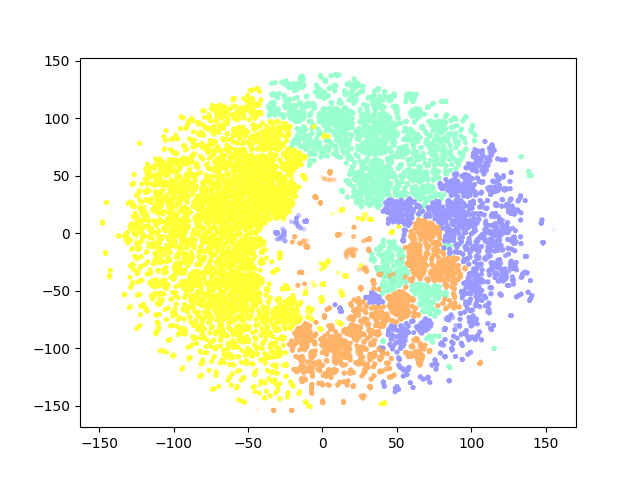
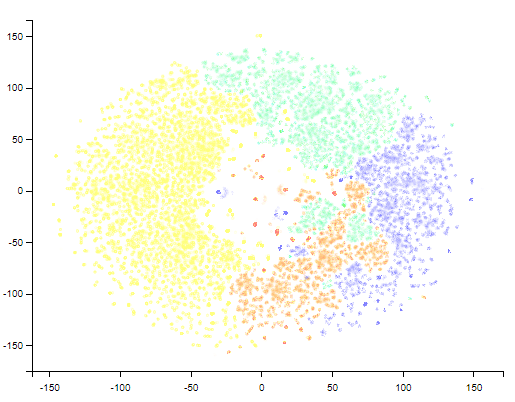
tsne & 3d visualization script updates

diff --git a/clustering/tsne.py b/clustering/tsne.py
@@ -5,7 +5,7 @@ from matplotlib import pyplot as plt
 
 if __name__ == '__main__':
     # read data
-    data = pd.read_csv('../data/clustering_results/kmeans_results_full.csv')
+    data = pd.read_csv('../data/clustering_results/kmeans_results_clean.csv')
 
     # prepare data for clustering (store and then remove id)
     clusters = data['cluster']
@@ -17,5 +17,5 @@ if __name__ == '__main__':
 
     # visualize data through TSNE
     projection = TSNE().fit_transform(data)
-    plt.scatter(*projection.T, alpha=0.1, s=6, c=colors)
+    plt.scatter(*projection.T, alpha=0.1, s=3, c=colors)
     plt.show()

diff --git a/clustering/kmeans_local.py b/clustering/kmeans_local.py
@@ -13,7 +13,7 @@ if __name__ == '__main__':
     # read data
     data = pd.read_pickle('../data/clustering_input/clustering_df_clean.pkl')
 
-    # prepare data for clustering (store nd then remove id)
+    # prepare data for clustering (store and then remove id)
     user_id = data['id']
     dates = data['date']
     data.drop(columns=['id', 'date'], inplace=True)
